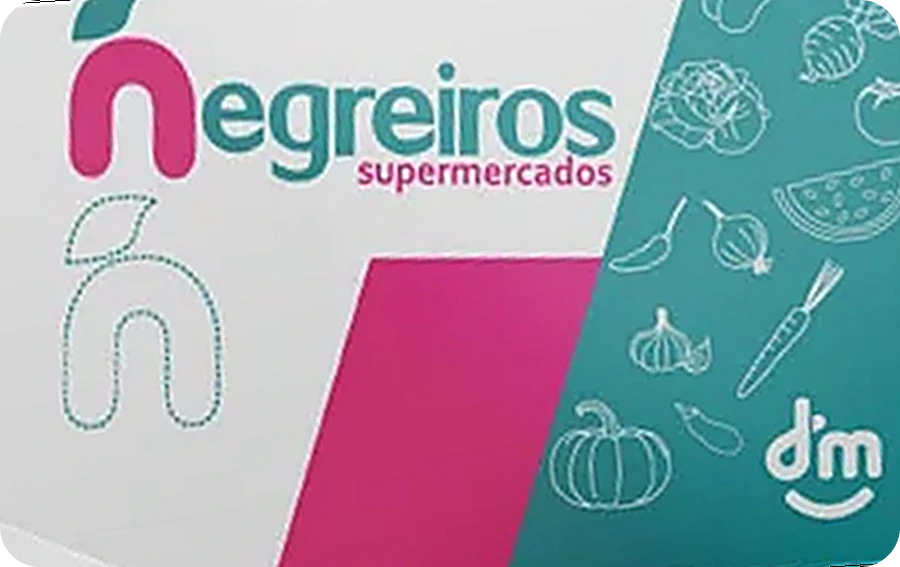
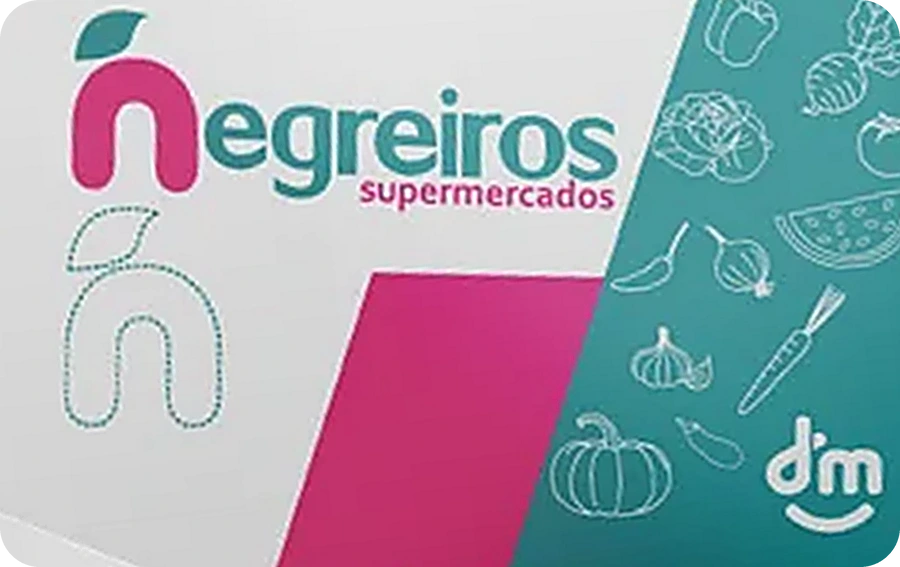
Fluxo PF: Mais! com mais vida e nitidez; Negreiros com a folha do n inteira

diff --git a/pf.js b/pf.js
@@ -404,7 +404,7 @@
   // Bancos usam assets/bancos/<id>.png; lojas usam assets/emissores/<id>.png (troque o arquivo pelo logo oficial quando quiser).
   const EMISSORES = [['bradesco', 'Bradesco', 'b'], ['nubank', 'Nubank', 'b'], ['itau', 'Itaú', 'b'], ['santander', 'Santander', 'b'], ['bb', 'Banco do Brasil', 'b'], ['caixa', 'Caixa', 'b'], ['inter', 'Inter', 'b'], ['c6', 'C6 Bank', 'b'], ['mercadopago', 'Mercado Pago', 'b'], ['brb', 'BRB', 'b'], ['digio', 'Digio', 'b'], ['picpay', 'PicPay', 'b'], ['carrefour', 'Carrefour', 'e'], ['renner', 'Renner', 'e'], ['marisa', 'Marisa', 'e'], ['vestcasa', 'Vest Casa', 'e'], ['dmcard', 'DM Card', 'e'], ['maiscard', 'Cartão Mais', 'e'], ['dibs', 'Dibs', 'e'], ['negreiros', 'Mercado Negreiros', 'e'], ['fernando', 'Armarinhos Fernando', 'e'], ['amazon', 'Amazon', 'e'], ['outro', 'Outro', '']];
   const emissorDe = c => { if (!c) return ''; if (c.emissor) return c.emissor; const n = norm(c.nome || ''), pal = x => new RegExp('(^|[^a-z0-9])' + x + '([^a-z0-9]|$)').test(n); return /bradesco/.test(n) ? 'bradesco' : (/nubank/.test(n) || pal('nu')) ? 'nubank' : /itau/.test(n) ? 'itau' : /santander/.test(n) ? 'santander' : (/brasil/.test(n) || pal('bb')) ? 'bb' : /caixa/.test(n) ? 'caixa' : pal('inter') ? 'inter' : pal('c6') ? 'c6' : /mercado *pago/.test(n) ? 'mercadopago' : pal('brb') ? 'brb' : /digio/.test(n) ? 'digio' : /picpay/.test(n) ? 'picpay' : /carrefour/.test(n) ? 'carrefour' : /renner/.test(n) ? 'renner' : /marisa/.test(n) ? 'marisa' : /vest *casa/.test(n) ? 'vestcasa' : (pal('dm') || /dm *card/.test(n)) ? 'dmcard' : /mais/.test(n) ? 'maiscard' : /dibs/.test(n) ? 'dibs' : /negreiros/.test(n) ? 'negreiros' : /fernando/.test(n) ? 'fernando' : /amazon/.test(n) ? 'amazon' : ''; };
-  const imagemDe = c => { if (!c) return ''; if (c.imagem) return c.imagem; const n = norm(c.nome || ''); if (emissorDe(c) === 'nubank' && /master/i.test(c.bandeira || '')) return 'assets/cartoes/nubank-mastercard.webp?v=1'; if (emissorDe(c) === 'caixa' && /visa/i.test(c.bandeira || '')) return 'assets/cartoes/caixa-visa.webp?v=1'; if (emissorDe(c) === 'brb' && /visa/i.test(c.bandeira || '')) return 'assets/cartoes/brb-visa.webp?v=1'; if (emissorDe(c) === 'digio' && /visa/i.test(c.bandeira || '')) return 'assets/cartoes/digio-visa.webp?v=1'; if (emissorDe(c) === 'amazon' && /master/i.test(c.bandeira || '')) return 'assets/cartoes/amazon-mastercard.webp?v=2'; if (emissorDe(c) === 'negreiros') return 'assets/cartoes/negreiros.webp?v=3'; if (emissorDe(c) === 'vestcasa') return 'assets/cartoes/vestcasa.webp?v=5'; if (emissorDe(c) === 'fernando') return 'assets/cartoes/fernando.webp?v=1'; if (emissorDe(c) === 'dmcard') return 'assets/cartoes/dmcard.webp?v=1'; if (emissorDe(c) === 'renner') return 'assets/cartoes/renner.webp?v=1'; if (emissorDe(c) === 'marisa') return 'assets/cartoes/marisa.webp?v=1'; if (emissorDe(c) === 'dibs') return 'assets/cartoes/dibs.webp?v=1'; if (emissorDe(c) === 'maiscard') return 'assets/cartoes/maiscard.webp?v=2'; if (emissorDe(c) === 'carrefour') return 'assets/cartoes/carrefour.webp?v=2'; return /bradesco/.test(n) && /disney/.test(n) ? 'assets/cartoes/bradesco-disney.webp?v=4' : (/bradesco/.test(n) && /(^|[^a-z0-9])neo([^a-z0-9]|$)/.test(n) ? 'assets/cartoes/bradesco-neo.webp?v=4' : ''); };
+  const imagemDe = c => { if (!c) return ''; if (c.imagem) return c.imagem; const n = norm(c.nome || ''); if (emissorDe(c) === 'nubank' && /master/i.test(c.bandeira || '')) return 'assets/cartoes/nubank-mastercard.webp?v=1'; if (emissorDe(c) === 'caixa' && /visa/i.test(c.bandeira || '')) return 'assets/cartoes/caixa-visa.webp?v=1'; if (emissorDe(c) === 'brb' && /visa/i.test(c.bandeira || '')) return 'assets/cartoes/brb-visa.webp?v=1'; if (emissorDe(c) === 'digio' && /visa/i.test(c.bandeira || '')) return 'assets/cartoes/digio-visa.webp?v=1'; if (emissorDe(c) === 'amazon' && /master/i.test(c.bandeira || '')) return 'assets/cartoes/amazon-mastercard.webp?v=2'; if (emissorDe(c) === 'negreiros') return 'assets/cartoes/negreiros.webp?v=4'; if (emissorDe(c) === 'vestcasa') return 'assets/cartoes/vestcasa.webp?v=5'; if (emissorDe(c) === 'fernando') return 'assets/cartoes/fernando.webp?v=1'; if (emissorDe(c) === 'dmcard') return 'assets/cartoes/dmcard.webp?v=1'; if (emissorDe(c) === 'renner') return 'assets/cartoes/renner.webp?v=1'; if (emissorDe(c) === 'marisa') return 'assets/cartoes/marisa.webp?v=1'; if (emissorDe(c) === 'dibs') return 'assets/cartoes/dibs.webp?v=1'; if (emissorDe(c) === 'maiscard') return 'assets/cartoes/maiscard.webp?v=3'; if (emissorDe(c) === 'carrefour') return 'assets/cartoes/carrefour.webp?v=2'; return /bradesco/.test(n) && /disney/.test(n) ? 'assets/cartoes/bradesco-disney.webp?v=4' : (/bradesco/.test(n) && /(^|[^a-z0-9])neo([^a-z0-9]|$)/.test(n) ? 'assets/cartoes/bradesco-neo.webp?v=4' : ''); };
   function emissorLogo(id, z) {
     z = z || 24; const e = EMISSORES.find(x => x[0] === id);
     if (!e || e[2] === '') return bancoLogo('outro', z);
